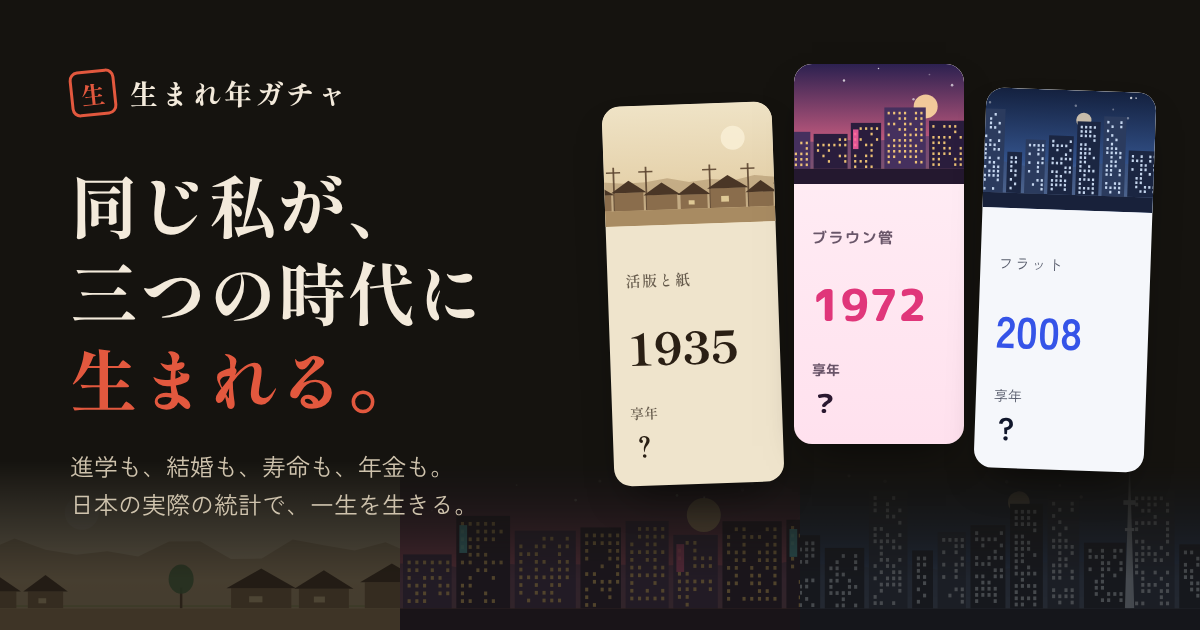
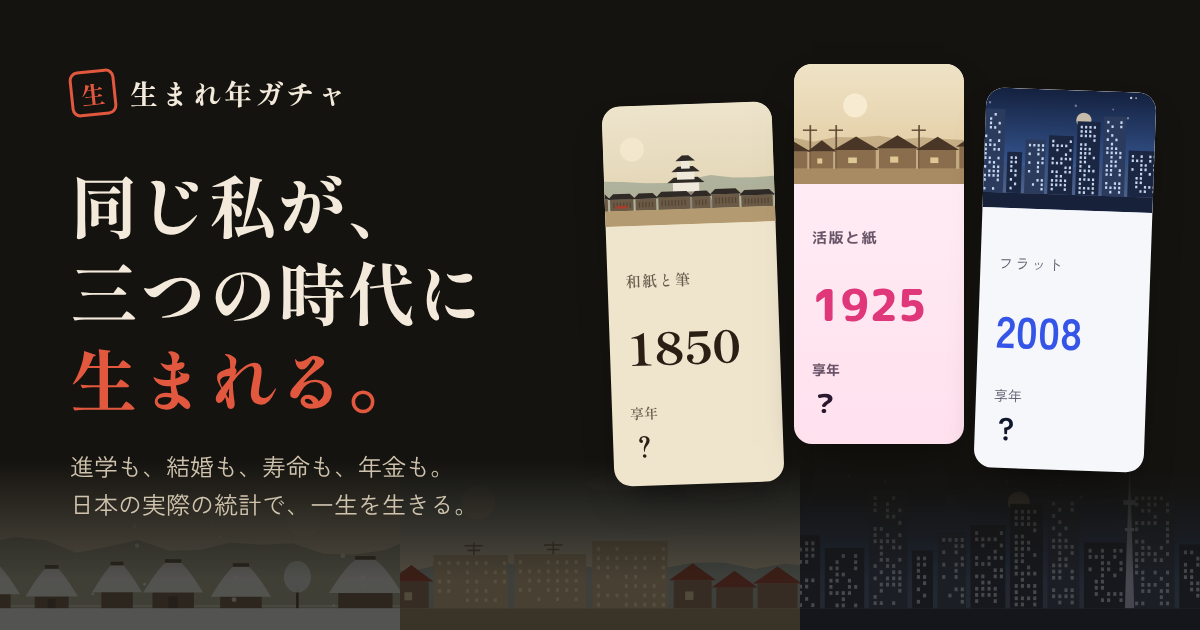
江戸の出来事の二重の死亡を外す、母子手帳の見出し、OGP画像を江戸入りに、判断ログ
Claude-Session: https://claude.ai/code/session_017RXjfYr61VXaMrkB5gzS2e

diff --git a/src/main.ts b/src/main.ts
@@ -481,7 +481,7 @@ function showBirth(): void {
   app.innerHTML = html`${topbar()}
     <main class="wrap birth" id="main">
       <p class="kicker">母子手帳</p>
-      <h2 style="font-family:var(--serif);font-size:clamp(24px,5vw,36px);margin:6px 0 4px">3つの時代、3つの県に、${st.shared.sex === 'male' ? '男の子' : '女の子'}が生まれた。</h2>
+      <h2 style="font-family:var(--serif);font-size:clamp(24px,5vw,36px);margin:6px 0 4px">3つの時代、3つの${st.persons.some((p) => p.birthYear < 1871) ? '土地' : '県'}に、${st.shared.sex === 'male' ? '男の子' : '女の子'}が生まれた。</h2>
       <p style="margin:0 0 6px;font-weight:700">${st.persons.map((p) => `${p.birthYear}年・${esc(S.placeName(p.pref, p.birthYear))}`).join('　／　')}</p>
       <p class="muted" style="margin:0 0 12px">家の暮らし向きは「${fam}」。才能は「${esc(st.shared.talent)}」。3人とも同じ人です。</p>
       <div class="books">

diff --git a/docs/判断ログ.md b/docs/判断ログ.md
@@ -54,3 +54,8 @@
 | 2026-10-15 | 生まれる県を3人別々にする。それぞれの生まれ年の県別出生数で重み付けして引く。名字は3人共通（いちばん下の人が沖縄なら沖縄の名字）。図鑑の組み合わせは3つの県を含めて数え、前世の記録にも3つの県を残す | ユーザーの依頼「それぞれ生まれる場所をバラバラに」 |
 | 2026-10-15 | 最後の画面の「画像付きでXに投稿」：スマホは共有シート（navigator.share）で共有カードの画像と文を渡す。パソコンは画像をクリップボードに写してからXの投稿画面を開き、貼り付けを案内する（写せないときは画像を保存）。Xの投稿画面のURLには画像を付けられないため | ユーザーの依頼「Xで最後に共有するとき、その画像で共有できるように」 |
 | 2026-10-15 | 1930年より前（明治・大正）の数字は概算で一部は推計であることを、トップページの下の「数字について」、母子手帳（1930年より前の生まれがいるとき）、出典の画面、検索エンジン向けの本文に書く | ユーザーの依頼「明治などが概算になるなら、その旨をトップページの下のほうに」 |
+| 2026-10-15 | いちばん古い生まれ年を1800年（江戸後期）まで広げる。いちばん年上は1800年からいちばん若い人の60年前まで（古いほど少し出にくい重み）、真ん中はそのあいだ。3人のあいだはどこも30年以上あける以外は決めない。いちばん年上が江戸になるのは約4割 | ユーザーの依頼「今の仕組みで江戸も入れよう。30〜50年の枠も広げて、いつが来るか分からないのがいい。近いのが来ないようにだけ」 |
+| 2026-10-15 | 江戸の人には同じ決断をその時代の仕組みに読み替える（寺子屋・藩校・私塾・遊学・奉公・家督・隠居・国の名前・元号・いまの価値で書くお金など。表は docs/09_江戸の読み替え.md）。境目は学制の1872年 | ユーザーの依頼「高校とかはいい感じに読み替えて」 |
+| 2026-10-15 | 1800〜1889年の統計は歴史人口学などからの推計（data/stats/edo.json、docs/03 の J 節）。飢饉や疫病の年の死亡は死亡確率の倍率（crisis）で入れ、出来事の側では死亡を足さない（二重に数えないため） | 江戸の全国統計はない。正確でなくても根拠のある目安で作る方針（ユーザー「正解でないのでもなんとか」） |
+| 2026-10-15 | 時代を決めていない日々の場面は、1890年より前には、近代の物の名前が入るものを出さない（daily.ts の OLD_BAN）。読んで合わないと判断した249件には notBefore を付けた | 江戸の人に窓ガラス・部活・給料日などが出たため |
+| 2026-10-15 | 定年の仕組みが広まる前（1920年より前）は隠居、健康保険法（1927年）より前の医療費は全額自分持ち、病院がほとんどない1900年より前は「寝込んで医者にかかる」と書く | 江戸生まれの人が明治に入ってから「定年退職」「自己負担50%」と出たため |

diff --git a/docs/09_江戸の読み替え.md b/docs/09_江戸の読み替え.md
@@ -52,6 +52,12 @@
 - 時代を決めていない場面は昭和以降の暮らしを思い浮かべて書いたものが多いので、1890年より前の人には、近代の物の名前が入った場面を出さない（daily.ts の `OLD_BAN`）。それでも合わない場面には `notBefore`（その年より前には出さない）を付けた
 - 親友・結婚記念日・子どもの入学・ペットなど、プログラムで作る場面も、年で書き分けた（消しゴム→栗、ランドセル→手習い、銀婚式は1930年から、など）
 
+## 出来事
+
+- data/events/edo.json（1800〜1889年、211件。全国107・県93（47都道府県すべて）・戦争11）、data/events/meiji_elders.json（1890〜1929年の、江戸・明治前半生まれの大人と年寄り向け、107件。日清・日露戦争の出征と戦死を含む）
+- 戊辰戦争・西南戦争・日清戦争・日露戦争の戦死は、死者数に合うよう確率を決めた（各出来事の probNote）
+- 飢饉・コレラ・はしかの年の死亡は、死亡確率の倍率（edo.json の crisis）だけで数え、出来事では死亡を足さない
+
 ## 風景
 
 - 1871年までは和紙色の空に、村は茅葺きの家と田んぼ、町は町家の並びとお城・火の見櫓（src/ui/scene.ts）。電柱は1880年から
